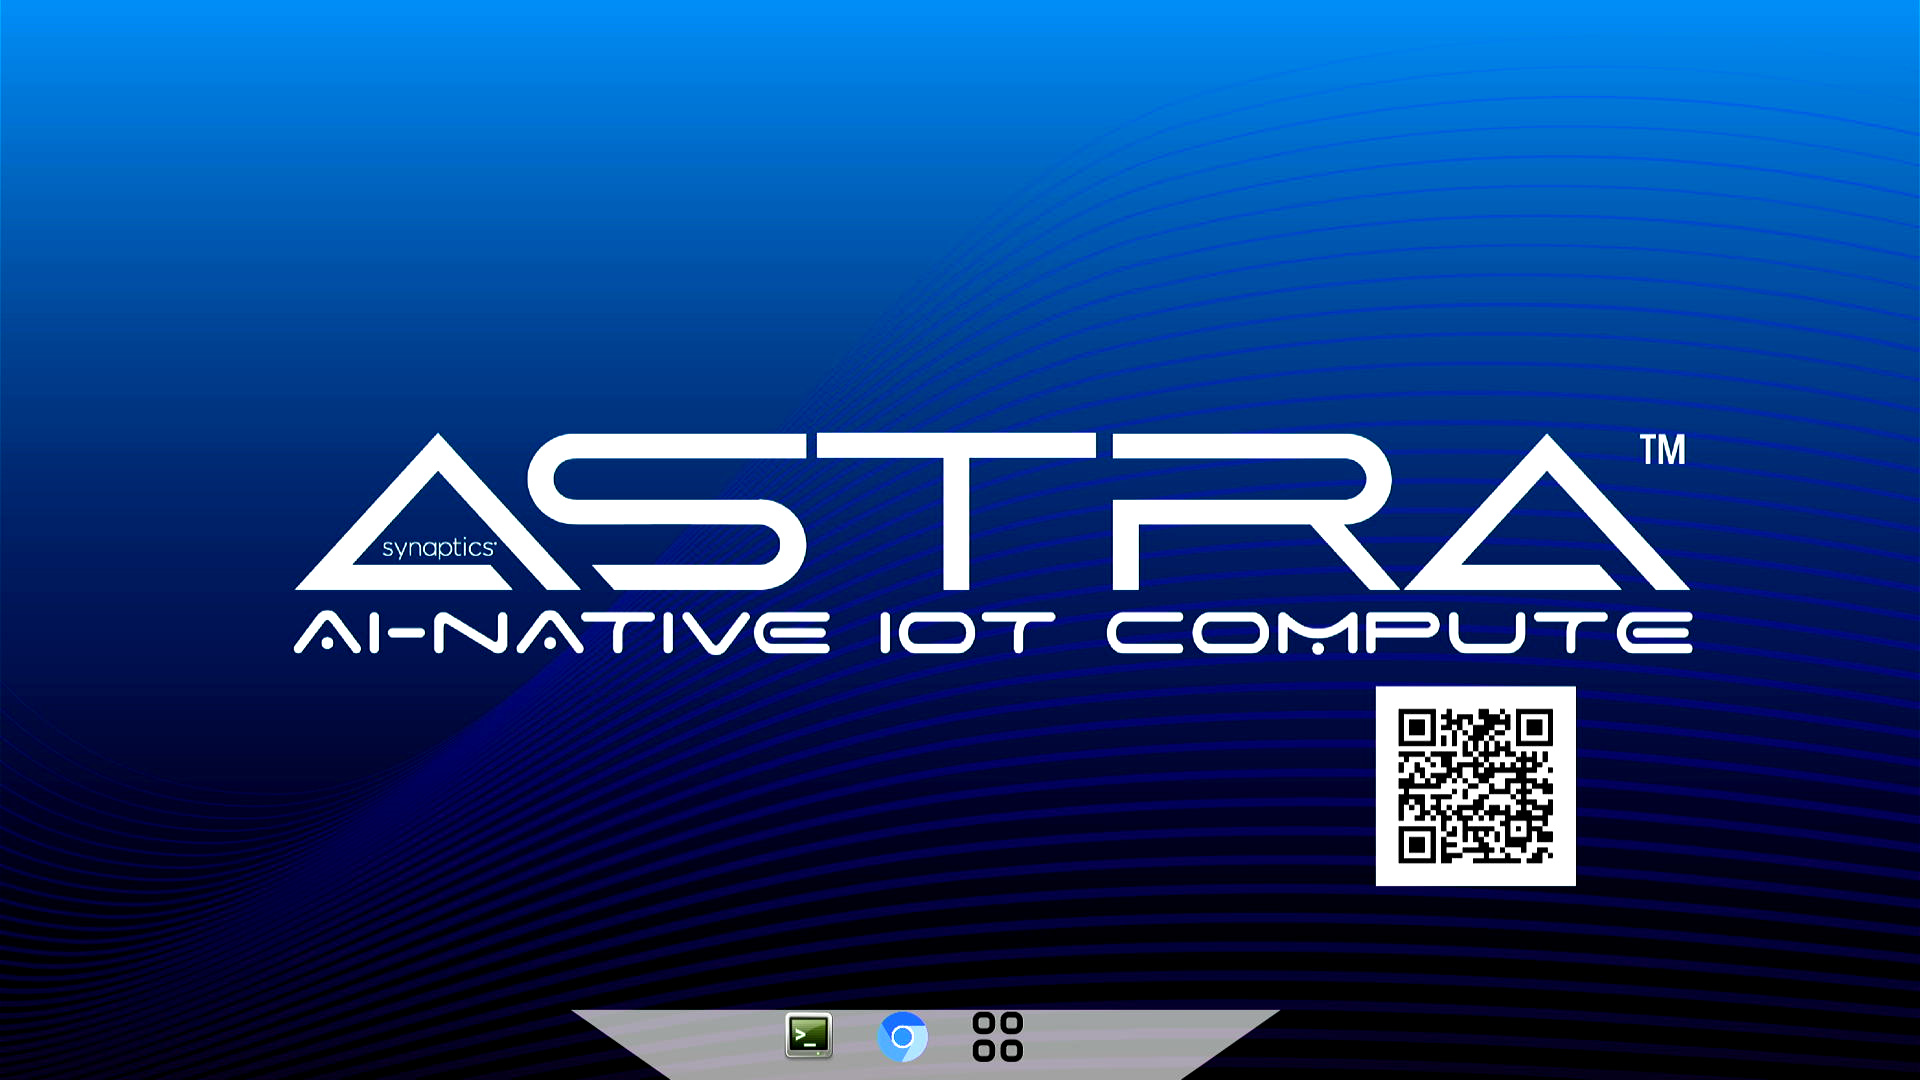
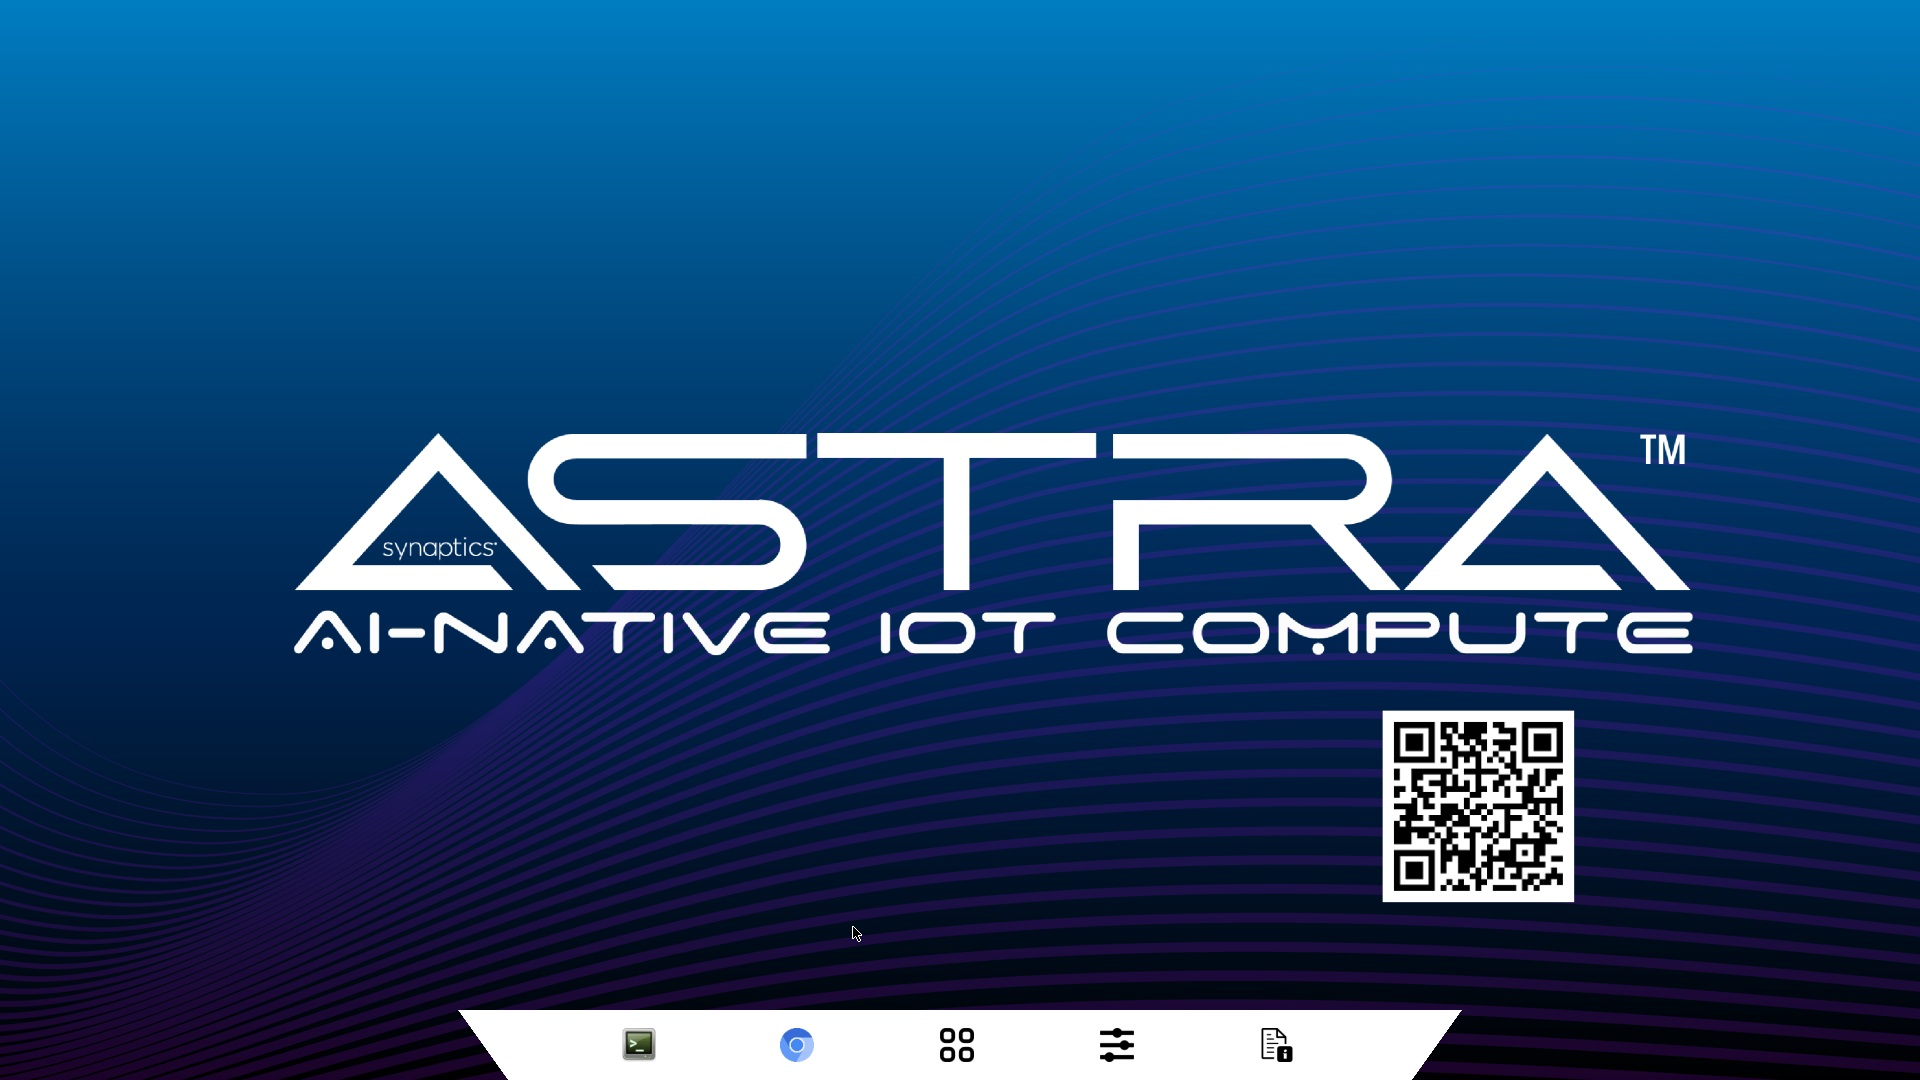
OOBE updates for v1.6 (#189)
- Add details on Settings and About apps.

---------

diff --git a/quickstart/oobe.rst b/quickstart/oobe.rst
@@ -15,6 +15,8 @@ At the bottom is a quick access panel with icons which will launch the three app
 - Terminal
 - Chromium Browser
 - SynaExplorer
+- Settings
+- About
 
 Terminal
 --------
@@ -275,19 +277,19 @@ The fifth button on the left is the "Capability Demo" button, which opens the "C
 Best Case
 """""""""
 
-The example demonstrates one of the best usecase which platfrom can support.
+The example demonstrates one of the best use case which the platform can support.
 
 .. note::
 
     This example doesn't define the limit for individual IP block. Refer datasheet for checking complete capabilities of individual IP block.
 
-This Best Case demo app demonstrates the capability of platform running multiple things concurently as mentioned below:
+This Best Case demo app demonstrates the capability of the platform running multiple things concurrently as mentioned below:
 
 SL1680:
 1. Multiple decoding: 4 Streams of 1920x1080@25 & 4 streams of 1280x720@25
 2. USB camera streaming and preview of 640x480@30
 3. Mixing of streams mentioned in #1 & #2 and rendering to display
-4. HDMI-RX stream receiving from Laptop (upto 4K60) and rendering to display
+4. HDMI-RX stream receiving from Laptop (up to 4K60) and rendering to display
 
 SL1640:
 1. Multiple decoding: 9 streams of 640x480@25
@@ -344,3 +346,38 @@ clicking on "Validate URLs" button to check if they are alive and reachable. Als
 .. figure:: media/settings-rtsp-urls-validate-crop.jpg
 
     RTSP URLs Validation on SL1680
+
+Settings
+--------
+
+Settings can be launched by clicking the Settings icon in the quick access panel. Settings app helps to configure different modules like Display.
+
+.. figure:: media/settings.jpg
+
+Display Config
+^^^^^^^^^^^^^^
+
+Display config allows to select MIPI panel for given platform. You can select a panel from auto filled dropdown menu and click on "Save Panel" button. It will popup a messege to reboot a board. On reboot your new panel will be configured.
+
+.. figure:: media/settings-popup.jpg
+
+"Reset to Default" button configures the default display. "Print Panel Info" button gives currently configured panel information.
+
+.. note::
+
+    Before clicking on "Save Panel" or "Reset to Default" button, ensure that the required display panel is connected.
+
+.. note::
+
+    Before running display settings, it is required to save uboot environment once to have persistent configuration for display.
+    Interrupt a boot process on start, to stop in uboot console (See :ref:`uboot_prompt`). Enter "saveenv" command to save uboot environment. Reboot a system.
+
+
+About
+-----
+
+About can be launched by clicking the About icon in the quick access panel. About helps to identify software version, hw revisions, linux build
+versions. It also provides some information on useful applications and internet links to resources.
+
+.. figure:: media/about.jpg
+
